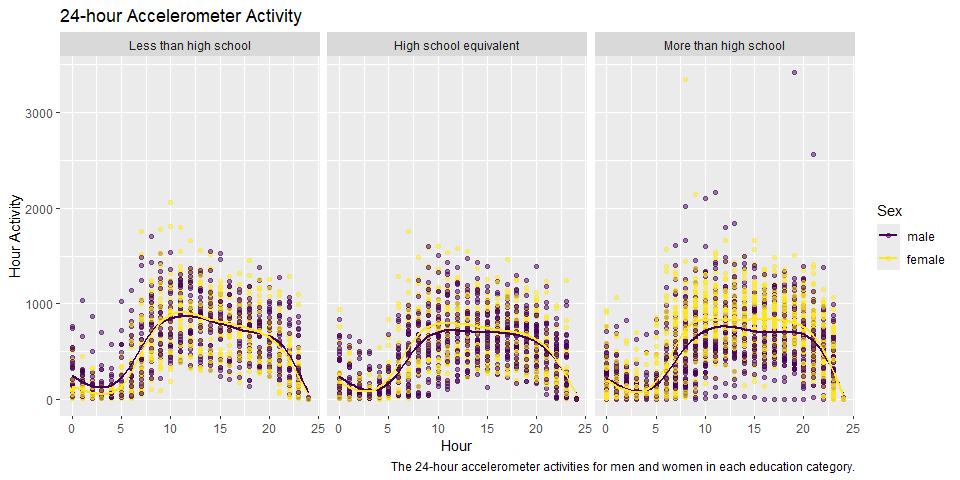
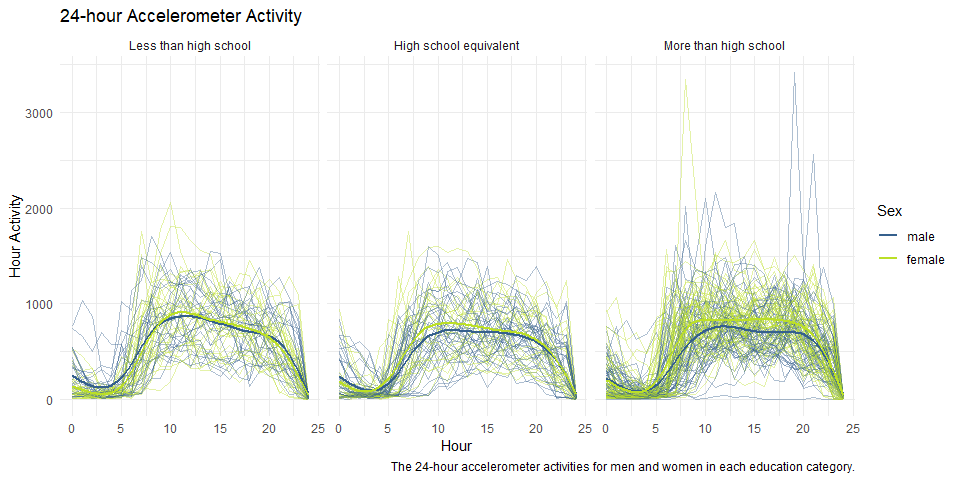
correction after grading: last question of problem 2, use 'group=seqn' and 'geom_line()' to create lines for each day

diff --git a/p8105_hw3_jz3902.md b/p8105_hw3_jz3902.md
@@ -330,15 +330,17 @@ mims_df %>%
   group_by(seqn, hour, sex, education) %>% 
   summarize(hour_activ = sum(mims)) %>% 
   ggplot(aes(x = hour, y = hour_activ, color = sex)) +
-  geom_point(alpha = .5) +
+  geom_line(aes(group = seqn), alpha = .4) +
   facet_grid(. ~education) +
+  theme_minimal() +
   geom_smooth(se = FALSE) +
   labs(
     title = "24-hour Accelerometer Activity",
     x = "Hour",
     y = "Hour Activity",
     color = "Sex",
-    caption = "The 24-hour accelerometer activities for men and women in each education category.")
+    caption = "The 24-hour accelerometer activities for men and women in each education category.") +
+  viridis::scale_color_viridis(begin = 0.3, end = 0.9, discrete = TRUE)
 ```
 
 <img src="p8105_hw3_jz3902_files/figure-gfm/24hour_activ-1.png" width="90%" />
@@ -361,6 +363,9 @@ mims_df %>%
   male participants. Besides, there are a few outliers with extremely
   high activity values in this category (hour accelerometer activity \>
   2500), which are not observed in other two categories.
+
+- *Correction after grading: last question of problem 2, use
+  `group=seqn` and `geom_line()` to create lines for each day*
 
 ## Problem 3
 
